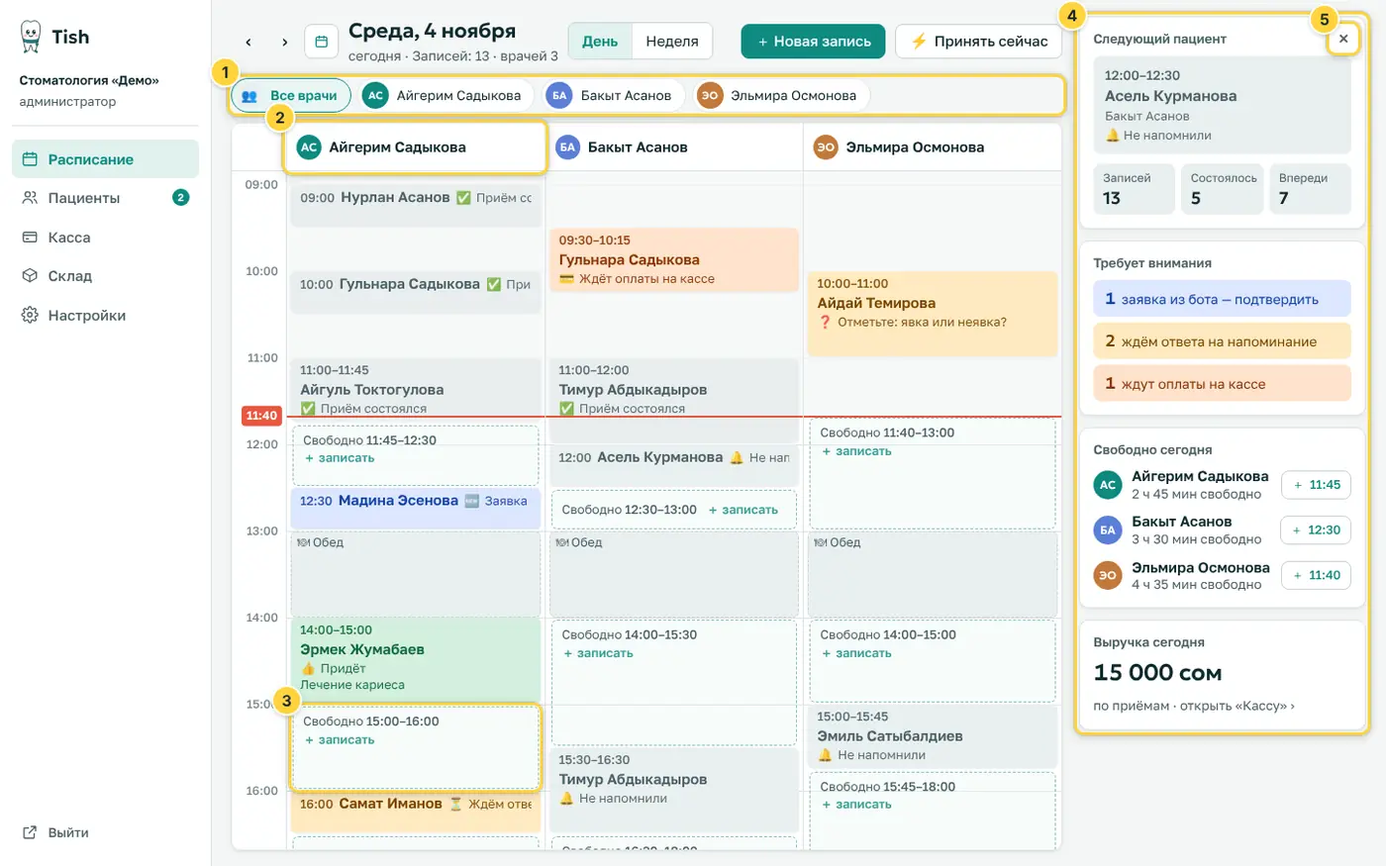
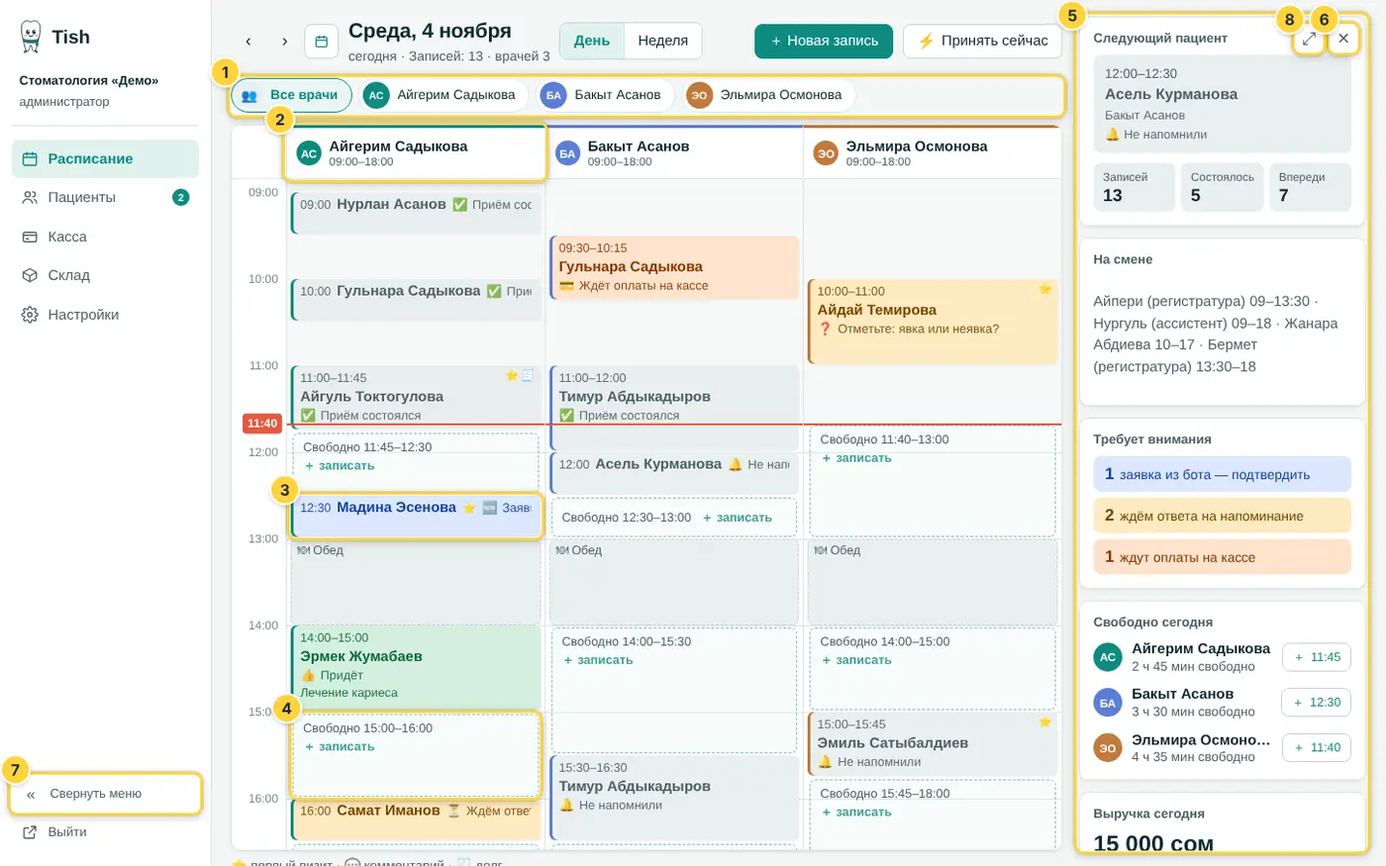
Руководство: карточка приёма, «Сообщение после приёма», «График смен», три переключателя ИИ, кнопка 💬 Помощь
- «День»: значки, цвет врача, «Свернуть меню», ⤢ — номера шагов совпадают с новым снимком;
  отдельный раздел «Карточка приёма»: ⤢, «Ещё», этапы (заметка за 15 минут), опасные кнопки внизу
- «Сообщение после приёма» и «График смен» — со снимками; «После приёма» — переснят без старого отчёта
- «ИИ-помощник»: личная часть сообщения после приёма вместо «Отчёта пациенту», ИИ подключает команда Tish
- «Вернуть» и «Профосмотр»: по 50 и «Показать ещё», отбор «Отправили план, не записались»
- «Где «Настройки»»: «График смен», «Отзыв о Tish»
- Кнопка 💬 Помощь внизу справа — в главе «Помощь» и в памятке каждой роли

Claude-Session: https://claude.ai/code/session_01C1D5HDPYP8Vu6bMCVu8hAp

diff --git a/src/site/guide/content.ts b/src/site/guide/content.ts
@@ -89,10 +89,10 @@ export const CHAPTERS: GuideChapter[] = [
         title: 'Где «Настройки»',
         text: 'В «Настройках» пункты собраны группами. У регистратуры и ассистента пунктов меньше — только то, что им можно. Внизу «Настроек» — оформление (светлая или тёмная тема, крупный текст), установка приложения и «Уведомления».',
         steps: [
-          '«Расписание»: часы работы, перерывы и выходные, услуги, памятки после процедур, текст напоминания (администратор).',
+          '«Расписание»: часы работы, перерывы и выходные, график смен, услуги, памятки после процедур, текст напоминания (администратор).',
           '«Клиника»: «Персонал», «О клинике», анкета пациента, «Откуда узнают о клинике», промокоды, новости для пациентов, «ИИ-помощник» (администратор).',
           '«Аккаунт клиники» (администратор): тариф и оплата, договор, данные.',
-          '«Профиль и помощь»: мой профиль и календарь (врачу), руководство, помощь, техподдержка.',
+          '«Профиль и помощь»: мой профиль и календарь (врачу), руководство, помощь, отзыв о Tish, техподдержка.',
         ],
         image: { src: 'nastroiki.webp', alt: 'Главная страница «Настроек» с группами пунктов', caption: 'Группы «Настроек».' },
       },
@@ -155,12 +155,22 @@ export const CHAPTERS: GuideChapter[] = [
           '«Сводка дня»: следующий пациент, сколько записей, что требует внимания, свободное время каждого врача и выручка дня.',
           '«×» — скрыть сводку: колонкам врачей станет больше места.',
           '« внизу меню слева — свернуть меню до иконок (расписанию больше места), » — развернуть; на этом компьютере запоминается.',
-          '⤢ — карточка приёма или «Сводка дня» на весь экран (карточка запоминает выбор на этом компьютере); ⤡ — свернуть обратно.',
-          'Редкое — под ссылкой «Ещё» в карточке приёма: «＋ Промокод», «Попросить предоплату», «В лист ожидания». Если промокод уже есть или предоплату уже попросили — они видны сразу.',
-          'Карточка приёма идёт за этапами: до приёма — напомнить, перенести, связаться; к началу приёма (за 15 минут) появляются заметка, материалы и диктовка («Показать сейчас» — если начали раньше); после «Приём состоялся» — оплата, сообщение пациенту и запись на следующий визит.',
+          '⤢ — «Сводка дня» (и карточка приёма) на весь экран; ⤡ — свернуть обратно.',
         ],
-        image: { src: 'den-kompyuter.webp', alt: 'Расписание «День»: колонки трёх врачей и «Сводка дня» справа', caption: '«Расписание» на компьютере, вид «День».' },
-        tip: 'Сводка видна на широком экране. Когда врачей четыре и больше, она по умолчанию скрыта; ваш выбор запоминается на этом компьютере.',
+        image: { src: 'den-kompyuter.webp', alt: 'Расписание «День»: колонки трёх врачей своего цвета, значки на приёмах и «Сводка дня» справа', caption: '«Расписание» на компьютере, вид «День».' },
+        tip: 'Сводка видна на широком экране. Когда врачей четыре и больше, она по умолчанию скрыта; ваш выбор запоминается на этом компьютере. В сводке есть и «На смене» — кто из персонала сегодня работает.',
+      },
+      {
+        title: 'Карточка приёма',
+        text: 'Нажмите на приём — справа откроется его карточка: пациент, статус, напоминание и кнопки. Карточка идёт за этапами приёма — лишнего на экране нет.',
+        steps: [
+          '⤢ — карточка на весь экран (выбор запоминается на этом компьютере); ⤡ — свернуть обратно.',
+          'Редкое — под ссылкой «Ещё»: «＋ Промокод», «Попросить предоплату», «В лист ожидания». Если промокод уже есть или предоплату уже попросили — они видны сразу.',
+          'До приёма — напомнить, перенести, связаться. К началу приёма (за 15 минут) появляются заметка, материалы и диктовка; начали раньше — «Показать сейчас».',
+          'После «Приём состоялся» — оплата, квитанция, сообщение пациенту и «Записать на следующий визит».',
+        ],
+        image: { src: 'kartochka-priema.webp', alt: 'Карточка приёма до начала: ⤢, ссылка «Ещё», «Показать сейчас»', caption: 'Карточка приёма утром — до начала приёма.' },
+        tip: 'Опасные кнопки — внизу карточки: «Неявка», «Отменить запись», у администратора — «Удалить запись» (только без оплаты и долга).',
       },
       {
         title: 'Кнопки над расписанием',
@@ -296,7 +306,7 @@ export const CHAPTERS: GuideChapter[] = [
           'Квитанция об оплате: «Печать» или «Отправить пациенту».',
           '«Записать на следующий визит» — новая запись через неделю на то же время.',
         ],
-        image: { src: 'posle-priema.webp', alt: 'Карточка состоявшегося приёма: долг, квитанция, сообщение после приёма', caption: 'Карточка состоявшегося приёма.' },
+        image: { src: 'posle-priema.webp', alt: 'Карточка состоявшегося приёма: долг и «Принять доплату», квитанция, «Записать на следующий визит»', caption: 'Карточка состоявшегося приёма.' },
       },
       {
         title: 'Сообщение после приёма',
@@ -309,6 +319,7 @@ export const CHAPTERS: GuideChapter[] = [
           '«Отправить в Telegram», «WhatsApp» или «Печать». Лист на руки только с памяткой — «Распечатать только памятку».',
           'Пациент пишет боту на кыргызском — личная часть и заголовок «Үйдө кам көрүү» на кыргызском, памятка — как написана в клинике.',
         ],
+        image: { src: 'soobshenie.webp', alt: '«Сообщение после приёма»: личная часть, «Уход дома» из памятки, кнопки отправки', caption: '«Сообщение после приёма» — проверьте и отправьте.' },
         tip: 'Сообщение видят врач приёма и администратор. Регистратура и ассистент отправляют и печатают памятку, как раньше. Личную часть пишет шаблон или ИИ — если администратор включил «ИИ пишет отчёты пациенту»; в ИИ уходят только данные приёма, без имени, телефона и без памятки: уход ИИ не пишет.',
       },
       {
@@ -503,9 +514,10 @@ export const CHAPTERS: GuideChapter[] = [
           'Пациент: причина, что осталось по плану, когда был и звали ли уже. «Пора на осмотр» — последний визит, услуга и с какого дня пора.',
           'Когда «пора на осмотр», решает срок профосмотра: у услуги последнего визита (чистка — через 6 мес., брекеты — через 1) или срок клиники. Сроки — в «Настройки → Услуги».',
           '«Пригласить» — готовый текст (по плану лечения или от ИИ), поправьте и отправьте в Telegram (с кнопкой «Записаться») или в WhatsApp. «Записать» — сразу новая запись.',
+          'Список — по 50 пациентов, дальше — «Показать ещё». Нажмите плашку сверху ещё раз — снова все.',
         ],
         image: { src: 'vernut.webp', alt: 'Вкладка «Вернуть»: незаконченные планы, приглашение', caption: '«Пациенты → Вернуть».' },
-        tip: 'Сверху появится «За 30 дней вернулись X из Y приглашённых» — так видно, работает ли.',
+        tip: 'Сверху появится «За 30 дней вернулись X из Y приглашённых» — так видно, работает ли. Отправили пациентам план с ценами — есть ещё отбор «Отправили план, не записались».',
       },
       {
         title: '«Профосмотр» (у ассистента)',
@@ -514,6 +526,7 @@ export const CHAPTERS: GuideChapter[] = [
         steps: [
           '«WhatsApp» — готовый текст приглашения, пациент отметится как «позвали».',
           '«Записать» — новая запись на пациента.',
+          'По 50 пациентов за раз; дальше — «Показать ещё».',
         ],
       },
     ],
@@ -755,10 +768,11 @@ export const CHAPTERS: GuideChapter[] = [
         steps: [
           '«Настройки» → «График смен»: неделя — строки сотрудники (с ролью), колонки дни. Стрелки ‹ › — соседние недели.',
           'Администратор нажимает «+» в ячейке — сотрудник, день, с и до, пометка по желанию («за Бермет») — «Добавить смену». Нажать на смену — изменить или «Удалить».',
-          'Две смены одного человека в один день не могут пересекаться; встык (09–15 и 15–21) — можно.',
           'Неделя готова — «Повторить эту неделю на … недель» (1–8): смены встанут на те же дни следующих недель. Где у сотрудника уже стоит смена в это время, её не трогаем.',
-          'Регистратура и ассистенты видят график только для чтения — их строка подсвечена. На телефоне — список по дням.',
+          'Две смены одного человека в один день не могут пересекаться; встык (09–15 и 15–21) — можно.',
+          'Регистратура и ассистенты видят график только для чтения — их строка подсвечена. На телефоне — список по дням, «+ Смена».',
         ],
+        image: { src: 'grafik-smen.webp', alt: '«График смен»: неделя, сотрудники строками, «+» в ячейке, «Повторить эту неделю»', caption: '«Настройки → График смен».' },
         tip: 'Кто сегодня на смене — в «Сводке дня» справа от расписания и утром в боте у администраторов: «На смене сегодня: Айпери 09–15, Бермет 15–21».',
       },
       {
@@ -803,12 +817,12 @@ export const CHAPTERS: GuideChapter[] = [
         roles: ADMIN,
         text: '«Настройки → ИИ-помощник» — что клиника доверяет ИИ. Три отдельных переключателя, меняет только администратор. Имя и телефон пациента в ИИ не уходят; ИИ сам ничего не отправляет — текст всегда проверяет сотрудник.',
         steps: [
-          '«ИИ пишет отчёты пациенту» — черновик «Отчёта пациенту» понятнее и на языке пациента. Этот же переключатель включает черновик ответа в «Пациенты → Вопросы» и текст приглашения в «Вернуть».',
+          '«ИИ пишет отчёты пациенту» — личная часть «Сообщения после приёма» понятнее и на языке пациента (уход дома — всегда из памятки клиники, его ИИ не пишет). Этот же переключатель включает «✨ Черновик ответа» в «Пациенты → Вопросы» и текст приглашения в «Вернуть».',
           '«ИИ разбирает голосовую диктовку» — «🎤 Надиктовать» раскладывает сказанное по карте зубов, плану и заметке. Выключено — текст диктовки идёт в заметку как есть.',
           '«ИИ для постов «до / после»» — «✨ Написать с ИИ» и «✨ Подогнать кадр» в конструкторе «до / после». В ИИ уходят уменьшенные копии двух выбранных фото — только у пациентов с согласием на публикацию. ИИ не меняет фото. Выключено — текст по шаблону, кадр вручную.',
         ],
-        image: { src: 'ii-pomoshnik.webp', alt: '«ИИ-помощник»: два переключателя — отчёты пациенту и разбор диктовки', caption: '«Настройки → ИИ-помощник».' },
-        tip: 'ИИ работает, только если на сервере Tish подключён ключ ИИ. Нет ключа — под переключателем «ИИ на сервере не подключён — включить пока нельзя». Без ИИ всё работает: черновики по шаблону, ответы и заметки — вручную.',
+        image: { src: 'ii-pomoshnik.webp', alt: '«ИИ-помощник»: три переключателя — отчёты пациенту, разбор диктовки и посты «до / после»', caption: '«Настройки → ИИ-помощник».' },
+        tip: 'ИИ подключает команда Tish на своём сервере — клинике ничего вписывать не нужно. Не подключён — под переключателем «ИИ на сервере не подключён — включить пока нельзя». Без ИИ всё работает: черновики по шаблону, ответы и заметки — вручную.',
       },
       {
         title: 'Анкета пациента',
@@ -914,9 +928,10 @@ export const CHAPTERS: GuideChapter[] = [
     sections: [
       {
         title: 'Профиль и помощь',
+        text: 'Кнопка 💬 Помощь внизу справа на главных экранах — спросить помощника Tish. Остальное — в «Настройках», группа «Профиль и помощь»:',
         steps: [
           '«Руководство» — видео про установку, коротко для каждой роли и эта страница сразу для вашей роли.',
-          '«Помощь» — помощник ответит сразу.',
+          '«Помощь» — помощник ответит сразу (то же, что кнопка 💬 Помощь).',
           '«Техподдержка» — написать команде Tish, частые вопросы, контакты поддержки.',
           '«Tish в Instagram» — @tish.app.kg: видео-инструкции и новости.',
         ],

diff --git a/src/settings/guides.ts b/src/settings/guides.ts
@@ -100,6 +100,14 @@ const PLAN_OFFER: Topic = {
   ],
 }
 
+const HELP: Topic = {
+  title: 'Если что-то непонятно',
+  steps: [
+    'Кнопка 💬 Помощь внизу справа на главных экранах — спросить помощника Tish.',
+    'Не знает ответа — передаст вопрос команде Tish, ответ придёт туда же и в Telegram. Данные пациентов в вопрос не пишите.',
+  ],
+}
+
 const ASSIST: Topic = {
   title: 'Что видит ассистент',
   steps: [
@@ -137,7 +145,7 @@ const SETUP: Topic = {
     '«О клинике» — адрес и контакты; там же ссылка для пациентов и вход с компьютера.',
     '«Услуги» → «Профосмотр через»: через сколько месяцев звать пациента снова; срок клиники — «Профосмотр по умолчанию».',
     '«Текст напоминания» — своими словами, что пациент получит перед приёмом в боте и WhatsApp.',
-    '«ИИ-помощник» — по отдельности: «ИИ пишет отчёты пациенту» (личная часть сообщения после приёма — уход всегда из памятки клиники — и черновики ответов на вопросы), «ИИ разбирает голосовую диктовку» и «ИИ для постов «до / после»» (в ИИ уходят уменьшенные копии двух фото). Нужен ключ ИИ на сервере; имя и телефон пациента в ИИ не уходят.',
+    '«ИИ-помощник» — по отдельности: «ИИ пишет отчёты пациенту» (личная часть сообщения после приёма — уход всегда из памятки клиники — и черновики ответов на вопросы), «ИИ разбирает голосовую диктовку» и «ИИ для постов «до / после»» (в ИИ уходят уменьшенные копии двух фото). ИИ подключает команда Tish на сервере — клинике ничего вписывать не нужно; имя и телефон пациента в ИИ не уходят.',
   ],
 }
 
@@ -145,22 +153,22 @@ export const GUIDES: Record<Role, { label: string; intro: string; topics: Topic[
   doctor: {
     label: 'Врач',
     intro: 'Ваше расписание, пациенты и оплата за приём.',
-    topics: [BOOK, REQUESTS, REMIND, PAY, AFTER_VISIT, EARNINGS, MOVE, CARD, PLAN_OFFER],
+    topics: [BOOK, REQUESTS, REMIND, PAY, AFTER_VISIT, EARNINGS, MOVE, CARD, PLAN_OFFER, HELP],
   },
   reception: {
     label: 'Регистратура',
     intro: 'Записи всех врачей, напоминания и касса.',
-    topics: [BOOK, REQUESTS, QUESTIONS, REMIND, PAY, AFTER_VISIT, MOVE],
+    topics: [BOOK, REQUESTS, QUESTIONS, REMIND, PAY, AFTER_VISIT, MOVE, HELP],
   },
   assistant: {
     label: 'Ассистент',
     intro: 'Помогаете своим врачам с записью и медкартами.',
-    topics: [ASSIST, BOOK, REMIND, MOVE, CARD],
+    topics: [ASSIST, BOOK, REMIND, MOVE, CARD, HELP],
   },
   admin: {
     label: 'Администратор',
     intro: 'Всё, что у регистратуры, плюс команда, деньги и настройки.',
-    topics: [TEAM, MONEY, SETUP, BOOK, PAY, QUESTIONS],
+    topics: [TEAM, MONEY, SETUP, BOOK, PAY, QUESTIONS, HELP],
   },
 }
 

diff --git a/src/site/guide/sizes.ts b/src/site/guide/sizes.ts
@@ -4,24 +4,26 @@ export const SIZES: Record<string, [number, number]> = {
   'analitika.webp': [1400, 1069],
   'anketa.webp': [1196, 524],
   'chasy.webp': [1236, 529],
-  'den-bez-svodki.webp': [1232, 134],
+  'den-bez-svodki.webp': [1232, 133],
   'den-kompyuter.webp': [1400, 875],
   'den-shapka.webp': [916, 83],
   'den-telefon.webp': [780, 1688],
   'diktovka.webp': [357, 676],
   'do-posle.webp': [1192, 402],
   'dolzhniki.webp': [1212, 299],
-  'ii-pomoshnik.webp': [1212, 360],
+  'grafik-smen.webp': [1216, 668],
+  'ii-pomoshnik.webp': [1212, 503],
   'kalendar.webp': [892, 159],
   'kalkulyator.webp': [1212, 398],
   'kartochka-pacienta.webp': [370, 1179],
+  'kartochka-priema.webp': [370, 770],
   'kassa.webp': [1196, 503],
   'list-ozhidaniya.webp': [1236, 269],
   'material.webp': [370, 671],
   'materialy-priema.webp': [374, 872],
   'medkarta.webp': [1208, 1220],
   'napomnit.webp': [370, 1677],
-  'nastroiki.webp': [1236, 972],
+  'nastroiki.webp': [1236, 1007],
   'nedelya.webp': [1400, 875],
   'novaya-zapis.webp': [370, 1272],
   'novosti.webp': [576, 341],
@@ -36,7 +38,7 @@ export const SIZES: Record<string, [number, number]> = {
   'plan.webp': [1208, 600],
   'pomosh.webp': [636, 552],
   'pomoshnik.webp': [1194, 311],
-  'posle-priema.webp': [374, 974],
+  'posle-priema.webp': [374, 868],
   'prilozhenie.webp': [764, 910],
   'prinyat-seichas.webp': [370, 1024],
   'prodolzhenie.webp': [370, 269],
@@ -46,6 +48,7 @@ export const SIZES: Record<string, [number, number]> = {
   'razdely-telefon.webp': [764, 144],
   'sklad.webp': [1216, 900],
   'snimki.webp': [1208, 723],
+  'soobshenie.webp': [357, 817],
   'sotrudniki.webp': [1196, 854],
   'tekst-napominaniya.webp': [916, 814],
   'uslugi.webp': [1400, 1069],
